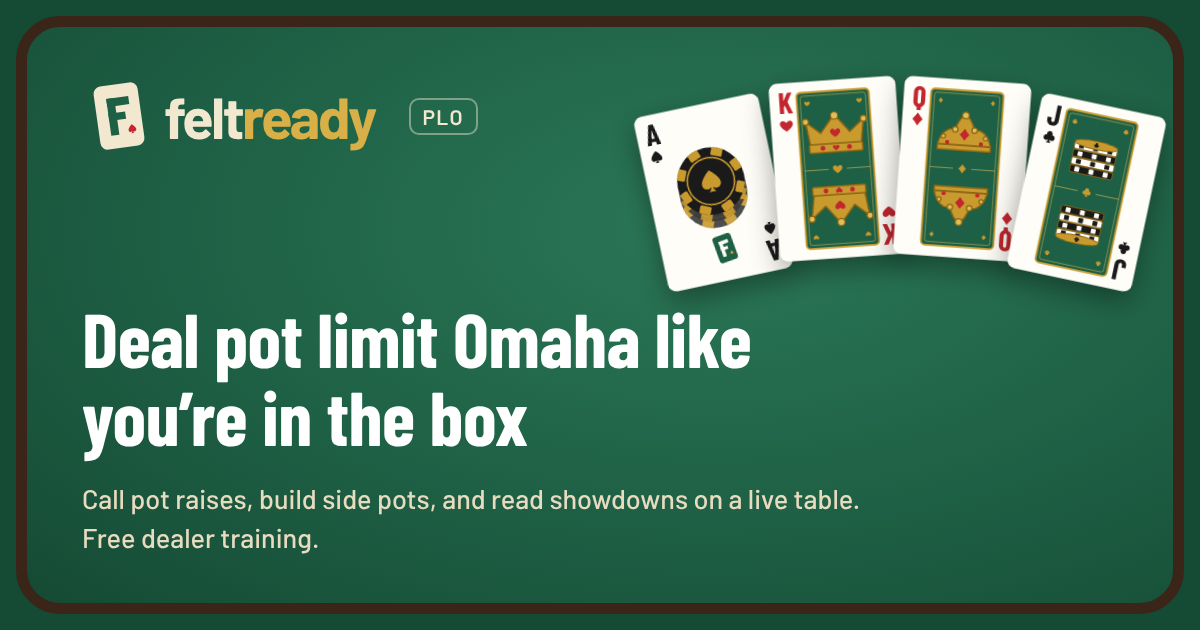
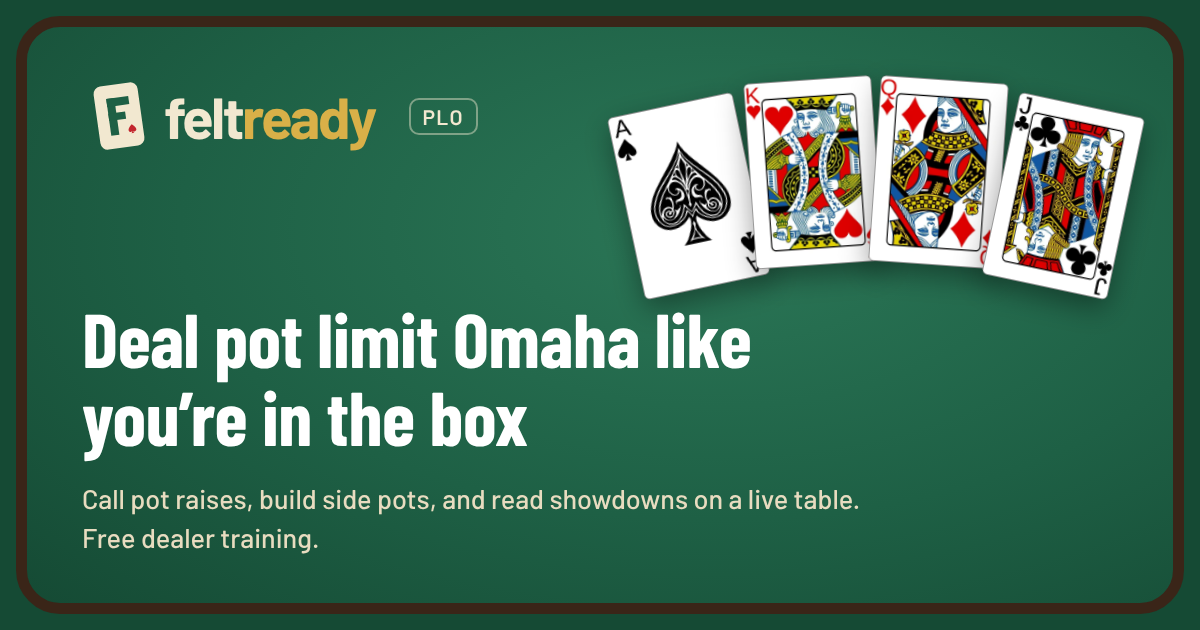
Use a real card deck on the home page and the link previews (#6)
- The home page shows a fanned hand (A♠ K♥ Q♦ J♣) beside the intro, floated
  right so the text wraps around it.
- marketing/og/render.ts draws the share images with the same cards, and
  public/og.png and og-daily.png are rebuilt from it.
- The card images (public/cards/*.webp, about 125 KB together) come from Byron
  Knoll's Vector Playing Cards, which are public domain.

The app's own cards don't change: at table size the real deck's corner letters
are about a third the size of ours and much harder to read at a glance.

Claude-Session: https://claude.ai/code/session_01JJxHFz3YSQhHQEWev3AJjE

Changed region(s): [[0.4933, 0.1206, 0.9867, 0.4825]]

diff --git a/index.html b/index.html
@@ -33,7 +33,7 @@
 <body data-page="home">
 <div class="wrap home">
   <header class="top"><h1 class="brand"><svg class="logo" viewBox="3 3 94 94" aria-hidden="true"><g transform="rotate(-8 50 50)"><rect x="20" y="7" width="60" height="86" rx="10" fill="#1E6045"/><path d="M36 25h30v11H47v9h12v10H47v20H36z" fill="#F2E8D0"/><path d="M12 2.5S3.5 9 3.5 14.2c0 2.8 2.1 4.6 4.4 4.6 1.4 0 2.6-.6 3.3-1.6-.2 1.7-.9 3.2-2.4 4.3h6.4c-1.5-1.1-2.2-2.6-2.4-4.3.7 1 1.9 1.6 3.3 1.6 2.3 0 4.4-1.8 4.4-4.6C20.5 9 12 2.5 12 2.5z" fill="#C99B2F" transform="translate(58 62) scale(.62)"/></g></svg><svg class="wm" role="img" aria-label="FeltReady" width="102.0" height="24" viewBox="6 -766 4158 978"><path d="M380 -546H271V-577C271 -609 285 -628 325 -628C342 -628 362 -625 375 -622L402 -746C382 -752 335 -762 287 -762C178 -762 102 -700 102 -575V-546H10V-419H102V0H271V-419H380Z M657 10C789 10 879 -50 906 -145L754 -169C741 -133 706 -113 660 -113C596 -113 552 -152 549 -231H914V-274C914 -455 804 -553 651 -553C487 -553 382 -439 382 -271C382 -96 486 10 657 10ZM550 -331C557 -391 592 -429 652 -429C712 -429 746 -393 752 -331Z M1129 -728H958V0H1129Z M1506 -546H1407V-676H1237V-546H1165V-419H1237V-152C1237 -48 1298 8 1414 8C1446 8 1482 4 1520 -6L1498 -130C1489 -128 1463 -125 1451 -125C1420 -125 1407 -138 1407 -167V-419H1506Z"/><path class="r" d="M1548 0H1718V-298C1718 -363 1765 -407 1828 -407C1848 -407 1879 -404 1895 -398V-547C1881 -550 1863 -553 1847 -553C1787 -553 1739 -518 1719 -446H1714V-546H1548Z M2150 10C2282 10 2371 -50 2399 -145L2247 -169C2233 -133 2198 -113 2152 -113C2088 -113 2045 -152 2042 -231H2406V-274C2406 -455 2296 -553 2143 -553C1979 -553 1874 -439 1874 -271C1874 -96 1978 10 2150 10ZM2043 -331C2049 -391 2085 -429 2145 -429C2204 -429 2238 -393 2245 -331Z M2613 10C2689 10 2742 -21 2772 -77H2776V0H2936V-371C2936 -488 2829 -553 2693 -553C2557 -553 2471 -489 2449 -396L2604 -375C2613 -410 2645 -432 2692 -432C2738 -432 2766 -410 2766 -373V-371C2766 -337 2729 -330 2637 -322C2526 -313 2434 -272 2434 -151C2434 -43 2508 10 2613 10ZM2665 -103C2624 -103 2595 -123 2595 -159C2595 -195 2623 -217 2673 -224C2705 -229 2748 -236 2768 -247V-194C2768 -141 2722 -103 2665 -103Z M3202 8C3285 8 3333 -39 3355 -88H3361V0H3529V-728H3359V-452H3355C3334 -501 3288 -553 3200 -553C3085 -553 2983 -464 2983 -272C2983 -87 3080 8 3202 8ZM3260 -125C3194 -125 3158 -184 3158 -272C3158 -361 3194 -419 3260 -419C3325 -419 3363 -363 3363 -272C3363 -183 3324 -125 3260 -125Z M3607 191C3633 201 3674 208 3716 208C3838 208 3898 146 3931 58L4160 -546H3982L3895 -279C3880 -232 3868 -186 3857 -137C3848 -186 3839 -232 3825 -279L3743 -546H3563L3767 1L3767 24C3770 68 3728 89 3667 73L3645 67Z"/></svg></h1></header>
-  <p class="home-lead">Deal it here before you deal it live. A hand plays out on its own and you run the table: call the pots, build the side pots, and ship every pot to the right hand. Every answer is checked and explained.</p>
+  <p class="home-lead"><span class="home-fan" aria-hidden="true"><img src="/cards/AS.webp" alt="" width="300" height="436"><img src="/cards/KH.webp" alt="" width="300" height="436"><img src="/cards/QD.webp" alt="" width="300" height="436"><img src="/cards/JC.webp" alt="" width="300" height="436"></span>Deal it here before you deal it live. A hand plays out on its own and you run the table: call the pots, build the side pots, and ship every pot to the right hand. Every answer is checked and explained.</p>
   <ul class="games">
     <li class="gamecard">
       <a class="gamelink" href="/plo/">

diff --git a/marketing/og/render.ts b/marketing/og/render.ts
@@ -1,11 +1,12 @@
-// Builds the link preview images (public/og.png, public/og-daily.png) from the card art in
-// src/ui/cardArt.ts, so the share cards match the app. Needs Chrome and the Barlow fonts installed.
+// Builds the link preview images (public/og.png, public/og-daily.png). The fanned hand uses the
+// real-deck card images in public/cards/ (public domain art, see README), the same ones the home
+// page shows. Needs Chrome and the Barlow fonts installed.
 //   npx tsx marketing/og/render.ts            (CHROME=/path/to/chrome to pick the browser)
 import { execFileSync } from 'node:child_process';
 import { mkdirSync, writeFileSync } from 'node:fs';
 import { dirname, join, resolve } from 'node:path';
 import { fileURLToPath } from 'node:url';
-import { cardSVG, logoMark, INK } from '../../src/ui/cardArt.ts';
+import { logoMark, INK } from '../../src/ui/cardArt.ts';
 import type { Card } from '../../src/engine/types.ts';
 
 const root = resolve(dirname(fileURLToPath(import.meta.url)), '../..');
@@ -13,6 +14,7 @@ const out = join(root, 'marketing/og/out');
 const CHROME = process.env.CHROME || 'google-chrome';
 
 const HAND: Card[] = [{ r: 14, s: 's' }, { r: 13, s: 'h' }, { r: 12, s: 'd' }, { r: 11, s: 'c' }];
+const CODE = (c: Card): string => ({ 14: 'A', 13: 'K', 12: 'Q', 11: 'J' } as Record<number, string>)[c.r] + c.s.toUpperCase();
 const FAN = [[-12, 0, 26], [-4, 112, 4], [4, 224, 4], [12, 336, 26]]; // [rotate, left, top]
 
 const page = (title: string, sub: string): string => `<!doctype html><html><head><meta charset="utf-8"><style>
@@ -21,15 +23,15 @@ const page = (title: string, sub: string): string => `<!doctype html><html><head
 .brand{position:absolute;left:55px;top:52px;display:flex;align-items:center;gap:8px}
 .wm{font-weight:700;font-size:58px;letter-spacing:-.045em;line-height:1}.wm b{font-weight:700;color:#D9B048}.wm span{color:#F2E8D0}
 .pill{margin-left:26px;border:2px solid rgba(242,232,208,.45);border-radius:10px;padding:4px 12px;font:600 21px Barlow;letter-spacing:.06em;color:#F2E8D0}
-.fan{position:absolute;left:641px;top:48px;width:500px;height:260px}
+.fan{position:absolute;left:617px;top:48px;width:500px;height:260px}
 .fan div{position:absolute;width:128px;filter:drop-shadow(0 10px 14px rgba(0,0,0,.38));transform-origin:50% 100%}
-.fan svg{display:block;width:100%}
+.fan img{display:block;width:100%;height:auto}
 h1{position:absolute;left:55px;top:272px;margin:0;width:800px;font:700 76px/1.02 'Barlow Condensed';color:#fff;letter-spacing:-.005em}
 p{position:absolute;left:55px;top:452px;margin:0;width:800px;font:500 27px/1.45 Barlow;color:#E8DCC0}
 </style></head><body><div class="felt">
 <div class="brand"><svg width="74" height="74" viewBox="0 0 100 100">${logoMark(50, 50, 100, '#F2E8D0', INK.felt, INK.red)}</svg>
 <div class="wm"><span>felt</span><b>ready</b></div><div class="pill">PLO</div></div>
-<div class="fan">${HAND.map((c, i) => `<div style="left:${FAN[i][1]}px;top:${FAN[i][2]}px;transform:rotate(${FAN[i][0]}deg)">${cardSVG(c, { border: false })}</div>`).join('')}</div>
+<div class="fan">${HAND.map((c, i) => `<div style="left:${FAN[i][1]}px;top:${FAN[i][2]}px;transform:rotate(${FAN[i][0]}deg)"><img src="file://${join(root, 'public/cards', CODE(c) + '.webp')}" alt=""></div>`).join('')}</div>
 <h1>${title}</h1><p>${sub}</p></div></body></html>`;
 
 const IMAGES: [string, string, string][] = [

diff --git a/src/styles/home.css b/src/styles/home.css
@@ -1,6 +1,13 @@
 /* The home page: the list of games. */
 .home .top{margin-bottom:10px}
 .home-lead{font-size:17px;line-height:1.5;margin:4px 0 18px}
+/* A fanned hand of real cards (public domain art, public/cards/) beside the intro. */
+.home-fan{float:right;position:relative;width:146px;height:96px;margin:2px -4px 6px 18px}
+.home-fan img{position:absolute;top:6px;width:56px;height:auto;transform-origin:50% 100%;filter:drop-shadow(0 0 .5px rgba(0,0,0,.45)) drop-shadow(0 2px 4px rgba(0,0,0,.2))}
+.home-fan img:nth-child(1){left:2px;top:12px;transform:rotate(-11deg)}
+.home-fan img:nth-child(2){left:30px;transform:rotate(-3.5deg)}
+.home-fan img:nth-child(3){left:58px;transform:rotate(3.5deg)}
+.home-fan img:nth-child(4){left:86px;top:12px;transform:rotate(11deg)}
 .games{list-style:none;margin:0;padding:0;display:grid;gap:14px}
 .gamecard{background:var(--surface);border:1px solid var(--line);border-radius:14px;overflow:hidden}
 .gamelink{display:grid;gap:8px;padding:16px 16px 18px;color:inherit;text-decoration:none;background:linear-gradient(160deg, var(--felt-hi) 0%, var(--felt) 45%, var(--felt-2) 100%);color:#F2E8D8}

diff --git a/src/ui/cardArt.ts b/src/ui/cardArt.ts
@@ -1,4 +1,5 @@
-// Card face art as SVG strings: the full 52-card faces for share images, flyers and promo.
+// Card face art as SVG strings: full 52-card faces (cardSVG) and the logo mark. The link previews
+// and the home page now use the real-deck images in public/cards/ instead of cardSVG.
 // The app keeps its plain index-and-suit cards, which read faster at small sizes.
 // No DOM access, so node scripts can use it.
 import type { Card, Suit } from '../engine/types.ts';

diff --git a/README.md b/README.md
@@ -185,6 +185,10 @@ e2e/stub/             stand-in for supabase-js, and a build script that uses it
 e2e/check.mjs         npm run check: every check in one command
 e2e/ci-wait.mjs       npm run ci:wait: waits for GitHub's checks on a pushed commit
 marketing/promo/      the promo video, animated in code (see its README)
+marketing/og/         render.ts rebuilds the link preview images (public/og.png, og-daily.png)
+public/cards/         real-deck card images for the home page and the link previews: Byron
+                      Knoll's Vector Playing Cards, public domain. The app's own cards stay plain
+                      (src/ui/cards.ts) because they read faster at small sizes.
 ```
 
 ## Deploying
